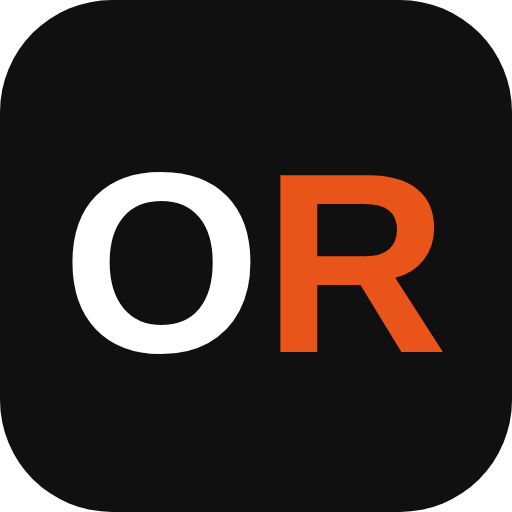
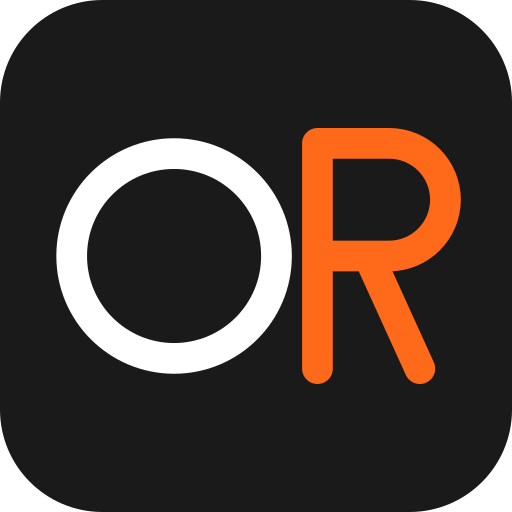
feat: aplica monograma OR + wordmark ORAveL no painel
Redesign de marca baseado em referência visual: monograma OR (O branco
outline + R laranja outline, lado a lado sem sobrepor) + wordmark
"ORAveL" no header do painel. Corrige o problema real da tentativa
anterior (bea4af3, revertida em bc259c5) -- lá a haste do R atravessava
a curva do O e ficava ilegível em favicon pequeno. Aqui o favicon usa
uma variante com traço reforçado (só nos tamanhos 16/32px) pra manter
legibilidade sem alterar a identidade nos ícones maiores.

Mesmo design já aplicado no site institucional (oravel.com.br) nesta
sessão.

diff --git a/resources/views/filament/brand-logo.blade.php b/resources/views/filament/brand-logo.blade.php
@@ -10,12 +10,24 @@
     };
 @endphp
 <div class="flex flex-col leading-tight">
-    <div class="fi-oravel-brand-logo-row flex items-center gap-4">
-        {{-- Cor do "r" fixa na laranja da marca (nao text-primary-500) --
-             central usa azul como cor primaria do painel, ficaria com o
-             "r" azul se dependesse da cor primaria de cada painel. Mesmo
-             #E8541A usado nos marcadores dos mapas comerciais. --}}
-        <div class="text-xl font-bold tracking-tight text-white">O<span style="color: #E8541A">r</span>avel</div>
+    <div class="fi-oravel-brand-logo-row flex items-center gap-3">
+        {{-- Monograma OR (2026-08) -- O branco outline + R laranja outline,
+             lado a lado sem sobrepor (ver historico: bea4af3 sobrepunha a
+             haste do R na curva do O e ficava ilegivel em favicon pequeno,
+             revertido em bc259c5). SVG inline pra ficar nitido em qualquer
+             tamanho, sem depender de raster. --}}
+        <svg viewBox="0 0 100 100" class="h-6 w-6 shrink-0" role="img" aria-label="Símbolo Oravel">
+            <circle cx="34" cy="50" r="20" fill="none" stroke="#FFFFFF" stroke-width="8"/>
+            <path d="M62 28 L62 72 M62 28 L76 28 A11 11 0 0 1 76 50 L62 50 M72 50 L82 72"
+                fill="none" stroke="#E8541A" stroke-width="8" stroke-linecap="round" stroke-linejoin="round"/>
+        </svg>
+
+        {{-- Wordmark: "OR" em laranja (mesma cor #E8541A usada nos
+             marcadores dos mapas comerciais e no monograma acima), resto
+             em branco. Nao depende de text-primary-500 pelo mesmo motivo
+             de sempre -- central usa azul como cor primaria do painel,
+             ficaria com a marca azul se dependesse disso. --}}
+        <div class="text-xl font-bold tracking-tight text-white"><span style="color: #E8541A">OR</span>Ave<span>L</span></div>
 
         @if($tenant)
             <span class="text-xs font-bold tracking-tight text-primary-500 truncate max-w-[16rem]">{{ $tenant->name }}</span>
